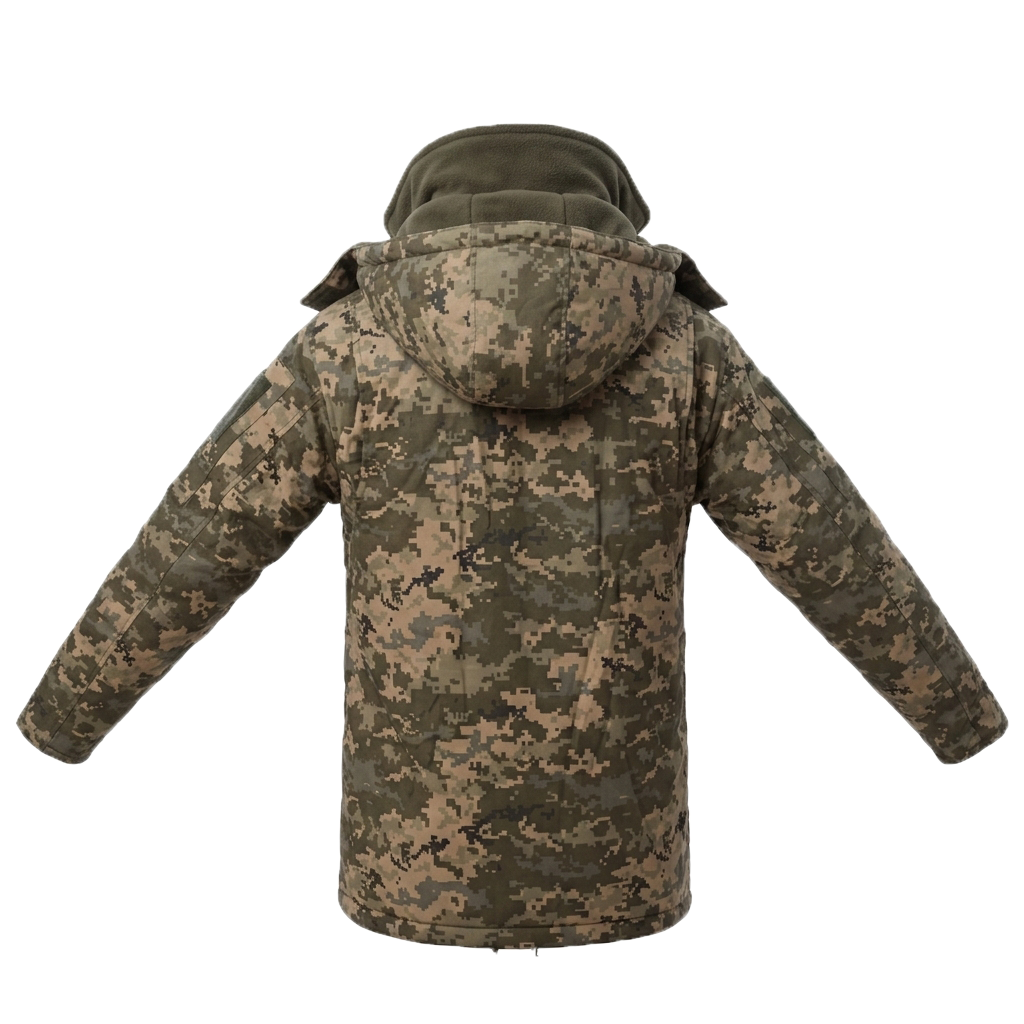
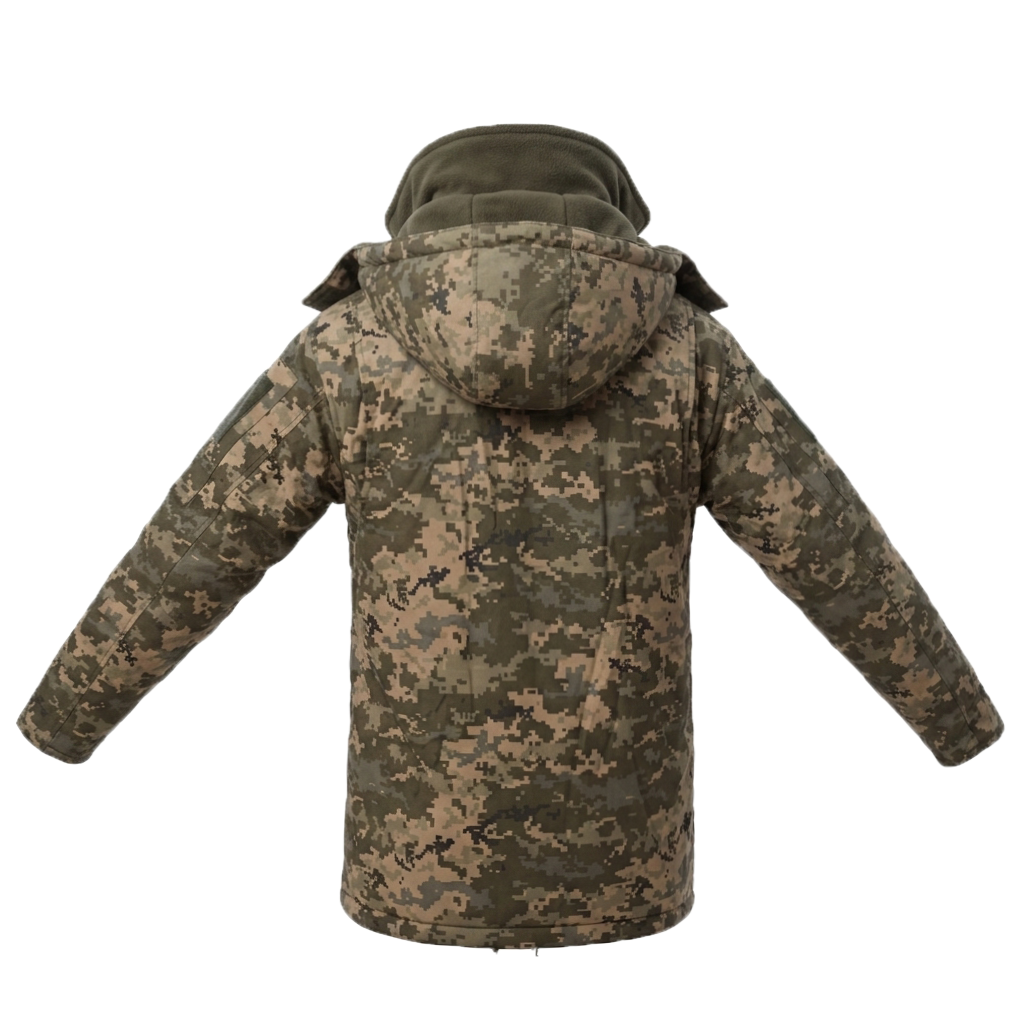
feat: add per-item zSlot stacking override (unused for now)
Adds the general mechanism (item.zSlot) for a single item to render at
another slot's RENDER_ORDER position instead of its own. Tried it on
the winter jacket to draw its hood over the helmet, but a single flat
layer can't be both under belt/vest and over headwear at once — those
are contradictory positions in one linear stack, since belt/vest
already render before headwear. Reverted the jacket to its normal Top
position (under belt, vest, and helmet, like every other top). A real
"torso under the belt, hood over the helmet" look would need the hood
split into its own image layered near headwearAccessories — happy to
wire that up if a separate hood cutout gets added.

Picks up re-exported jacket art and incidental calibration.

Changed region(s): [[0.0625, 0.1875, 1.0, 0.9062], [0.625, 0.2188, 0.6562, 0.25], [0.5, 0.875, 0.5312, 0.9062]]

diff --git a/data/items.js b/data/items.js
@@ -108,7 +108,7 @@ const GROUPS = [
 ];
 
 // Optional permanent presets. Keyed by slot id -> array of items.
-// Each item is { id, name, src, srcBack, transformKey, peekBehindBody }.
+// Each item is { id, name, src, srcBack, transformKey, peekBehindBody, zSlot }.
 //
 // - `srcBack` is optional — only needed if the item looks different from
 //   behind (e.g. a backpack, or a plate carrier's rear panel). Items
@@ -129,6 +129,12 @@ const GROUPS = [
 //   Calibrate the first variant, then give every other variant
 //   `transformKey: "<that variant's id>"` and they inherit it
 //   automatically (recalibrating one recalibrates all of them).
+// - `zSlot` is optional. An item normally stacks at its own slot's
+//   position in RENDER_ORDER; set `zSlot` to another slot's id to draw it
+//   there instead — e.g. a hooded winter jacket sets
+//   `zSlot: "headwearAccessories"` so it renders over the helmet rather
+//   than under it like every other Top item. Calibration is unaffected —
+//   it's still keyed by the item's own id/view (or its transformKey).
 //
 // Fill these in once final art assets exist (e.g.
 // src: "assets/top/plain_shirt.png").

diff --git a/script.js b/script.js
@@ -211,7 +211,15 @@
         if (item) layers.push({ item, slotId });
       });
     });
-    return layers;
+    // Most items stack at their own slot's RENDER_ORDER position, but a few
+    // need an exception (e.g. a hooded jacket drawn over the helmet instead
+    // of under it, like everything else in "top"). `item.zSlot` renders the
+    // item as if it belonged to that other slot instead — stable-sorted so
+    // items without an override keep their natural relative order.
+    return layers
+      .map((layer, i) => ({ layer, i, order: RENDER_ORDER.indexOf(layer.item.zSlot || layer.slotId) }))
+      .sort((a, b) => a.order - b.order || a.i - b.i)
+      .map(({ layer }) => layer);
   }
 
   // ---------- Rendering ----------

diff --git a/data/itemTransforms.js b/data/itemTransforms.js
@@ -276,6 +276,15 @@ const ITEM_TRANSFORMS = {
       "saturate": 1,
       "brightness": 1,
       "shadow": 0.35
+    },
+    "rear": {
+      "x": 1.5350877192982462,
+      "y": -18.467491881182518,
+      "scale": 0.5799999999999996,
+      "hue": 0,
+      "saturate": 1,
+      "brightness": 1,
+      "shadow": 0.35
     }
   }
 };
